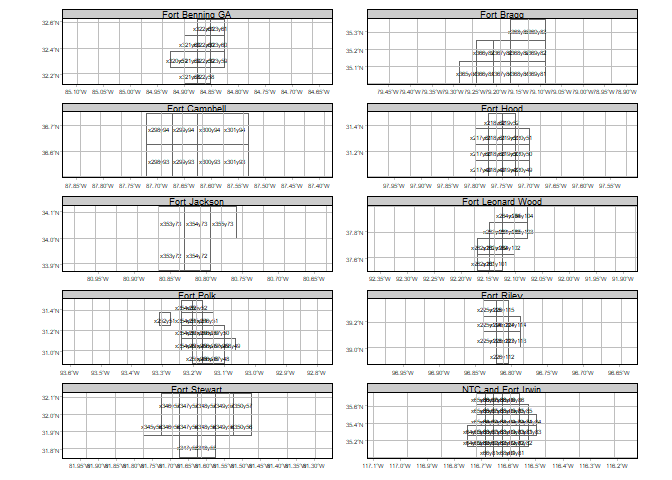
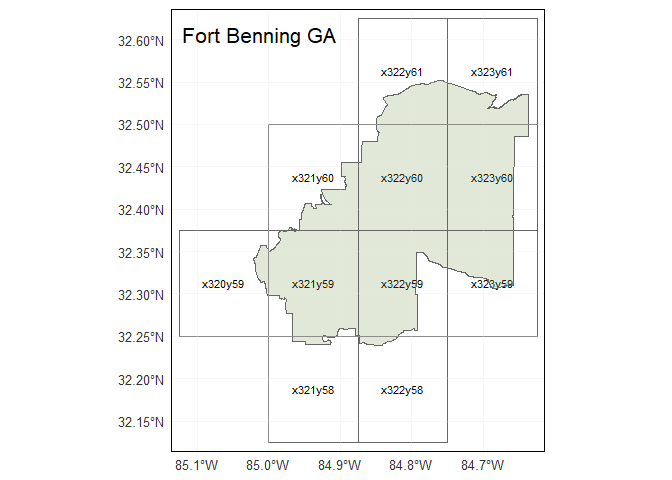
updated bases/shapefile markdown

diff --git a/bases.md b/bases.md
@@ -3,8 +3,8 @@ Shapefile and Grid Geometries
 SL
 July 1, 2019
 
-Load MIRTA Data
----------------
+Load Military Installations, Ranges, and Training Areas (MIRTA) Dataset
+-----------------------------------------------------------------------
 
 Accessed from: <https://catalog.data.gov/dataset/military-installations-ranges-and-training-areas> Metadata updated date: January 18, 2017
 
@@ -25,7 +25,6 @@ bases <- st_read("installations_ranges/MIRTA_Boundaries.shp") %>%
 ``` r
 # convert to SpatialPolygonsDataFrame
 # bases_sp <- as(bases, "Spatial")
-
 st_crs(bases)
 ```
 
@@ -52,43 +51,13 @@ as_tibble(bases)
     ## 10 Army Gua~ NG Aubur~ N/A        Maine      United~ Active   
     ## # ... with 740 more rows, and 1 more variable: geometry <MULTIPOLYGON [°]>
 
-Feature information
--------------------
-
 ``` r
+## Feature information
 bases_geom <- st_geometry(bases)
 st_geometry(bases) %>% class()
-```
-
-    ## [1] "sfc_MULTIPOLYGON" "sfc"
-
-``` r
 attributes(bases_geom)
-```
-
-    ## $n_empty
-    ## [1] 0
-    ## 
-    ## $crs
-    ## Coordinate Reference System:
-    ##   EPSG: 4326 
-    ##   proj4string: "+proj=longlat +datum=WGS84 +no_defs"
-    ## 
-    ## $class
-    ## [1] "sfc_MULTIPOLYGON" "sfc"             
-    ## 
-    ## $precision
-    ## [1] 0
-    ## 
-    ## $bbox
-    ##       xmin       ymin       xmax       ymax 
-    ## -168.85755   13.30706  174.15652   64.87792
-
-``` r
 bases_geom[[1]] %>% class
 ```
-
-    ## [1] "XY"           "MULTIPOLYGON" "sfg"
 
 Inspection plot - world
 -----------------------
@@ -106,7 +75,7 @@ ggplot() +
 
 ![](bases_files/figure-markdown_github/world_plot-1.png)
 
-Select specific installations
+Modify specific installations
 -----------------------------
 
 ``` r
@@ -142,12 +111,8 @@ army_select <-
                               "NTC and Fort Irwin")) %>% 
     mutate(centroid = st_centroid(geometry)) %>% 
     dplyr::select(-c("component", "joint_base", "country", "oper_stat"))
-```
 
-    ## Warning in st_centroid.sfc(geometry): st_centroid does not give correct
-    ## centroids for longitude/latitude data
 
-``` r
 st_crs(army_select)
 ```
 
@@ -192,26 +157,6 @@ cowplot::plot_grid(plotlist = bases_plot)
 ```
 
 ![](bases_files/figure-markdown_github/plot_selected_bases-1.png)
-
-``` r
-bragg <-
-  bases %>% 
-    filter(.$site_name == "Fort Bragg")
-
-
-# Save shapefile
-# st_write(bragg, "bragg.shp")
-
-st_centroid(bragg) %>% 
-  as.tibble()
-
-bragg_centroid <- st_centroid(bragg)
-
-ggplot(bragg) +
-  ggtitle("Fort Bragg") +
-  geom_sf() +
-  theme_bw()
-```
 
 Load NLDAS grids
 ----------------
@@ -262,34 +207,6 @@ NLDAS and Installation Grid Overlap and Weighted Averages
 ---------------------------------------------------------
 
 ``` r
-class(bragg)
-bragg_nldas <-
-  st_intersection(bragg, nldas_grid) %>% 
-  mutate(area = sf::st_area(.),
-         weight = area / sum(area))
-
-bragg_intersects <-
-  nldas_grid %>% filter(lengths(st_intersects(., bragg)) > 0)
-
-as.data.frame(bragg_intersects) %>% 
-  select(-geometry)
-
-bragg_nldas
-
-sum(bragg_nldas$area)
-sum(bragg_nldas$weight)
-st_area(bragg_nldas) 
-
-
-ggplot(bragg_nldas) + 
-  ggtitle("Fort Bragg NLDAS grids") +
-  geom_sf() +
-  geom_label(data = bragg_nldas, aes(x = centerx, y = centery, label = nldas_id), size = 3, fontface = "bold") +
-  geom_text(data = bragg_nldas, aes(x = centerx, y = centery, label =  formatC(weight, format = "f", digits = 3)) , size = 3, position = position_nudge(y = -0.02)) +
-  theme_bw()
-```
-
-``` r
 # Identify all NLDAS grids intersected by installation shapefiles
 
 bases_nldas = NULL
@@ -298,20 +215,6 @@ for (i in 1:nrow(army_select)) {
   base_nldas = st_intersection(base, nldas_grid) 
   bases_nldas = rbind(bases_nldas, base_nldas)
 }
-```
-
-    ## although coordinates are longitude/latitude, st_intersection assumes that they are planar
-    ## although coordinates are longitude/latitude, st_intersection assumes that they are planar
-    ## although coordinates are longitude/latitude, st_intersection assumes that they are planar
-    ## although coordinates are longitude/latitude, st_intersection assumes that they are planar
-    ## although coordinates are longitude/latitude, st_intersection assumes that they are planar
-    ## although coordinates are longitude/latitude, st_intersection assumes that they are planar
-    ## although coordinates are longitude/latitude, st_intersection assumes that they are planar
-    ## although coordinates are longitude/latitude, st_intersection assumes that they are planar
-    ## although coordinates are longitude/latitude, st_intersection assumes that they are planar
-    ## although coordinates are longitude/latitude, st_intersection assumes that they are planar
-
-``` r
 rm(base, base_nldas)
 bases_nldas
 ```
@@ -364,21 +267,6 @@ for (i in 1:nrow(army_select)) {
   base_intersect = nldas_grid %>% filter(lengths(st_intersects(., base)) > 0)
   intersects = rbind(intersects, base_intersect)
 }
-```
-
-    ## although coordinates are longitude/latitude, st_intersects assumes that they are planar
-
-    ## although coordinates are longitude/latitude, st_intersects assumes that they are planar
-    ## although coordinates are longitude/latitude, st_intersects assumes that they are planar
-    ## although coordinates are longitude/latitude, st_intersects assumes that they are planar
-    ## although coordinates are longitude/latitude, st_intersects assumes that they are planar
-    ## although coordinates are longitude/latitude, st_intersects assumes that they are planar
-    ## although coordinates are longitude/latitude, st_intersects assumes that they are planar
-    ## although coordinates are longitude/latitude, st_intersects assumes that they are planar
-    ## although coordinates are longitude/latitude, st_intersects assumes that they are planar
-    ## although coordinates are longitude/latitude, st_intersects assumes that they are planar
-
-``` r
 rm(base, base_intersect)
 
 # Join `site_name` to selected NLDAS grid geometries
@@ -462,6 +350,7 @@ ggplot() +
 ```
 
 ``` r
+# Faceted maps
 tm_shape(intersects) +
   tm_borders() +
   tm_text("nldas_id", size = 0.5) +
@@ -473,3 +362,33 @@ tm_shape(intersects) +
 ```
 
 ![](bases_files/figure-markdown_github/grid_plots-1.png)
+
+``` r
+# tm_shape(intersects %>%  filter(site_name == "Fort Polk")) +
+#  tm_borders() +
+#  tm_text("nldas_id", size = 0.5) +
+#  tm_shape(nldas_weights %>% filter(site_name == "Fort Polk")) +
+#  tm_borders() +
+#  tm_graticules(col = "gray90", alpha = 0.5, labels.size = 0.5) +
+#    tm_layout(title = "Fort Polk")
+
+ 
+# Individual site maps 
+
+site_list <- unique(as.character(army_select$site_name))
+
+for (i in seq_along(site_list)) { 
+site_plot <-
+  tm_shape(intersects %>%  filter(site_name == site_list[i])) +
+  tm_borders() +
+  tm_text("nldas_id", size = 0.7) +
+  tm_shape(nldas_weights %>% filter(site_name == site_list[i])) +
+  tm_borders() +
+  tm_fill(col = "darkolivegreen4", alpha = 0.2) +
+  tm_graticules(col = "gray90", alpha = 0.3, labels.size = 0.8) +
+    tm_layout(title = site_list[i])
+print(site_plot)
+}
+```
+
+![](bases_files/figure-markdown_github/grid_plots-2.png)![](bases_files/figure-markdown_github/grid_plots-3.png)![](bases_files/figure-markdown_github/grid_plots-4.png)![](bases_files/figure-markdown_github/grid_plots-5.png)![](bases_files/figure-markdown_github/grid_plots-6.png)![](bases_files/figure-markdown_github/grid_plots-7.png)![](bases_files/figure-markdown_github/grid_plots-8.png)![](bases_files/figure-markdown_github/grid_plots-9.png)![](bases_files/figure-markdown_github/grid_plots-10.png)![](bases_files/figure-markdown_github/grid_plots-11.png)
